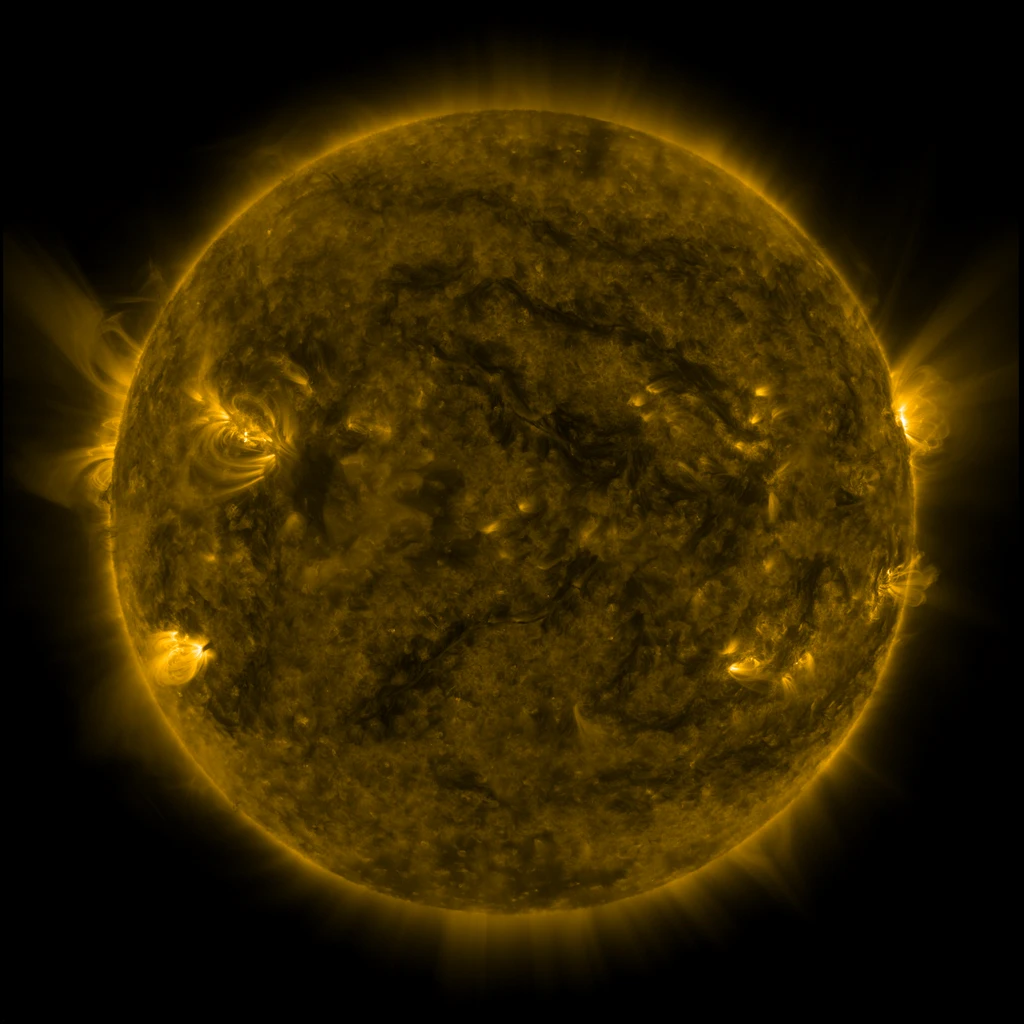
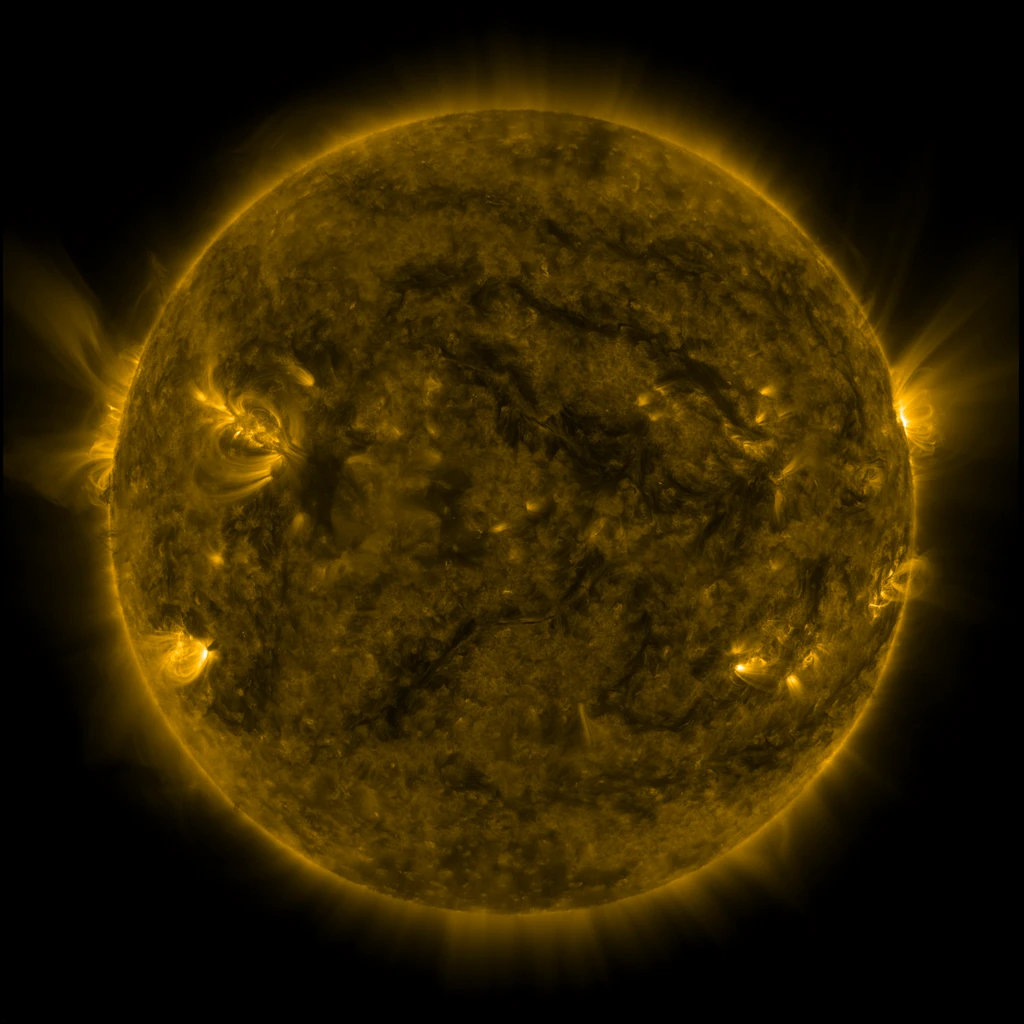
Replace broken AIA hours with a nearby sharp plate.
The bake was keeping smeared and cut files, and repeating one picture when the archive hour was empty.

diff --git a/index.html b/index.html
@@ -64,10 +64,10 @@
   <link rel="icon" type="image/png" sizes="32x32" href="favicon-32.png?v=172" />
   <link rel="icon" type="image/png" sizes="192x192" href="icon-192.png?v=172" />
   <link rel="icon" href="favicon.ico?v=172" sizes="32x32" />
-  <link rel="preload" href="frames.json?v=152" as="fetch" crossorigin />
+  <link rel="preload" href="frames.json?v=153" as="fetch" crossorigin />
   <link rel="preload" href="fonts/michroma.woff2" as="font" type="font/woff2" crossorigin />
   <link rel="preload" href="fonts/inter.woff2" as="font" type="font/woff2" crossorigin />
-  <link rel="stylesheet" href="fonts.css?v=152" />
+  <link rel="stylesheet" href="fonts.css?v=153" />
   <link rel="preconnect" href="https://unpkg.com" crossorigin />
   <link rel="modulepreload" href="https://unpkg.com/three@0.160.0/build/three.module.min.js" />
   <style>
@@ -1087,7 +1087,7 @@
   </div>
 
   <script type="module">
-    import { createSunGlobe } from "./sun.js?v=152";
+    import { createSunGlobe } from "./sun.js?v=153";
 
     /** Load after the first sun image so open stays snappy. */
     let astronomyPromise = null;

diff --git a/sun.js b/sun.js
@@ -120,9 +120,9 @@ function createStarfield() {
 
 /** Full-disk AIA 171 loop — JPEG frames (snappy scrub) on the starfield. */
 const MOVIE = {
-  meta: "frames.json?v=152",
-  poster: "carrington-171-poster.jpg?v=152",
-  frameUrl: (i) => `frames/${String(i).padStart(4, "0")}.webp?v=152`,
+  meta: "frames.json?v=153",
+  poster: "carrington-171-poster.jpg?v=153",
+  frameUrl: (i) => `frames/${String(i).padStart(4, "0")}.webp?v=153`,
   /** World size of the square AIA plate; home fits this to the screen. */
   plane: 2.35,
   /** Plate brightness (toneMapped is off, so gain lives here). */

diff --git a/scripts/build-171-movie.py b/scripts/build-171-movie.py
@@ -48,8 +48,14 @@ SIZE = 2048  # above GB's 1024; phone-friendly
 # instrument; framing the plate to the screen hides that hard FOV edge.
 IMAGE_SCALE = 1.2
 SCRUB_SIZE = 1024
-# Try nearby times when the exact slot is junk (eclipse, blank, etc.).
-OFFSETS_MIN = (0, -30, 30, -60, 60, -90, 90, -120, 120)
+# Try nearby times when the exact slot is junk (eclipse, blank, smear).
+# Step 10 minutes. A broken hour often has a sharp plate 20 minutes off,
+# which a half-hour search never reaches, so it keeps the smeared neighbor.
+OFFSETS_MIN = tuple(
+    off
+    for step in range(0, 13)
+    for off in ((0,) if step == 0 else (-10 * step, 10 * step))
+)
 
 
 def which_ffmpeg() -> str:
@@ -94,14 +100,14 @@ def frame_times() -> list[datetime]:
     return times
 
 
-def is_good_frame(path: Path) -> bool:
-    """Reject dark/eclipse, blank, washed-out, dropout lines, or off-center junk."""
+def frame_problem(path: Path) -> str | None:
+    """None when the plate is usable. A short reason otherwise."""
     try:
         im = Image.open(path).convert("L")
     except Exception:
-        return False
+        return "unreadable"
     if im.size[0] < SIZE // 2 or im.size[1] < SIZE // 2:
-        return False
+        return "too small"
     arr = np.asarray(im, dtype=np.float32)
     h, w = arr.shape
     cy, cx = h / 2.0, w / 2.0
@@ -111,39 +117,73 @@ def is_good_frame(path: Path) -> bool:
     disk = arr[r < 0.32 * rmax * 2]
     outer = arr[r > 0.92 * rmax]
     if disk.size < 1000 or outer.size < 1000:
-        return False
+        return "too small"
     d_mean = float(disk.mean())
     d_std = float(disk.std())
     o_mean = float(outer.mean())
     lit = float((arr > 18.0).mean())
     # Eclipse / missing data: disk too dark or flatter than noise.
     if d_mean < 28.0 or d_std < 10.0:
-        return False
+        return "dark"
     # Disk should outshine the black field.
     if d_mean < o_mean * 2.2:
-        return False
+        return "dim"
     # Too little lit area (empty) or whole frame lit (bad stretch / artifact).
     if lit < 0.06 or lit > 0.85:
-        return False
+        return "empty"
     # Horizontal dropout / missing scan lines (e.g. 2026-09-30 17:00Z).
     streak = float(np.std(np.diff(arr.mean(axis=1))))
     if streak > 0.55:
-        return False
+        return "streak"
     # Hole in the disk (black block from a bad Helioviewer cut).
     if float((disk < 8.0).mean()) > 0.02:
-        return False
+        return "hole"
     y0, y1 = int(0.5 * h), int(0.85 * h)
     x0, x1 = int(0.15 * w), int(0.55 * w)
     if float((arr[y0:y1, x0:x1] < 8.0).mean()) > 0.12:
-        return False
+        return "hole"
     # Severe registration shift — mild AIA drift (~2% of height) is normal.
     wgt = np.clip(arr - 20.0, 0.0, None)
     wsum = float(wgt.sum())
     if wsum > 0:
         bright_cy = float((yy * wgt).sum() / wsum)
         if abs(bright_cy - cy) > 0.04 * h:
-            return False
-    return True
+            return "shift"
+    # Smeared JPEG2000: only the coarse layer decoded. A real plate scores
+    # about 1000 here. The softest good cached plate is about 660. The
+    # smeared 21 Oct file scored about 90.
+    crop = arr[int(0.32 * h) : int(0.68 * h), int(0.32 * w) : int(0.68 * w)]
+    step = max(1, min(crop.shape) // 96)
+    small = crop[::step, ::step]
+    if small.shape[0] < 8 or small.shape[1] < 8:
+        return "smear"
+    lap = (
+        small[1:-1, 1:-1] * 4
+        - small[:-2, 1:-1]
+        - small[2:, 1:-1]
+        - small[1:-1, :-2]
+        - small[1:-1, 2:]
+    )
+    if float(lap.var()) < 400.0:
+        return "smear"
+    # One side black well inside the limb. Normal corona starts about 5–8%
+    # in from the edge. A file that decoded in half starts around 15%.
+    col = arr.mean(axis=0)
+    rowm = arr.mean(axis=1)
+    margins = (
+        int(np.argmax(col > 8.0)) / w,
+        int(np.argmax(col[::-1] > 8.0)) / w,
+        int(np.argmax(rowm > 8.0)) / h,
+        int(np.argmax(rowm[::-1] > 8.0)) / h,
+    )
+    if max(margins) > 0.12:
+        return "cut"
+    return None
+
+
+def is_good_frame(path: Path) -> bool:
+    """Reject dark, blank, smeared, cropped, or off-center plates."""
+    return frame_problem(path) is None
 
 
 def download_at(when: datetime, dest: Path) -> bool:
@@ -171,8 +211,9 @@ def download_at(when: datetime, dest: Path) -> bool:
     if not part.exists() or part.stat().st_size < 40_000:
         part.unlink(missing_ok=True)
         return False
-    if not is_good_frame(part):
-        print(f"  reject bad frame {date}", flush=True)
+    problem = frame_problem(part)
+    if problem:
+        print(f"  reject {problem} {date}", flush=True)
         part.unlink(missing_ok=True)
         return False
     try:
